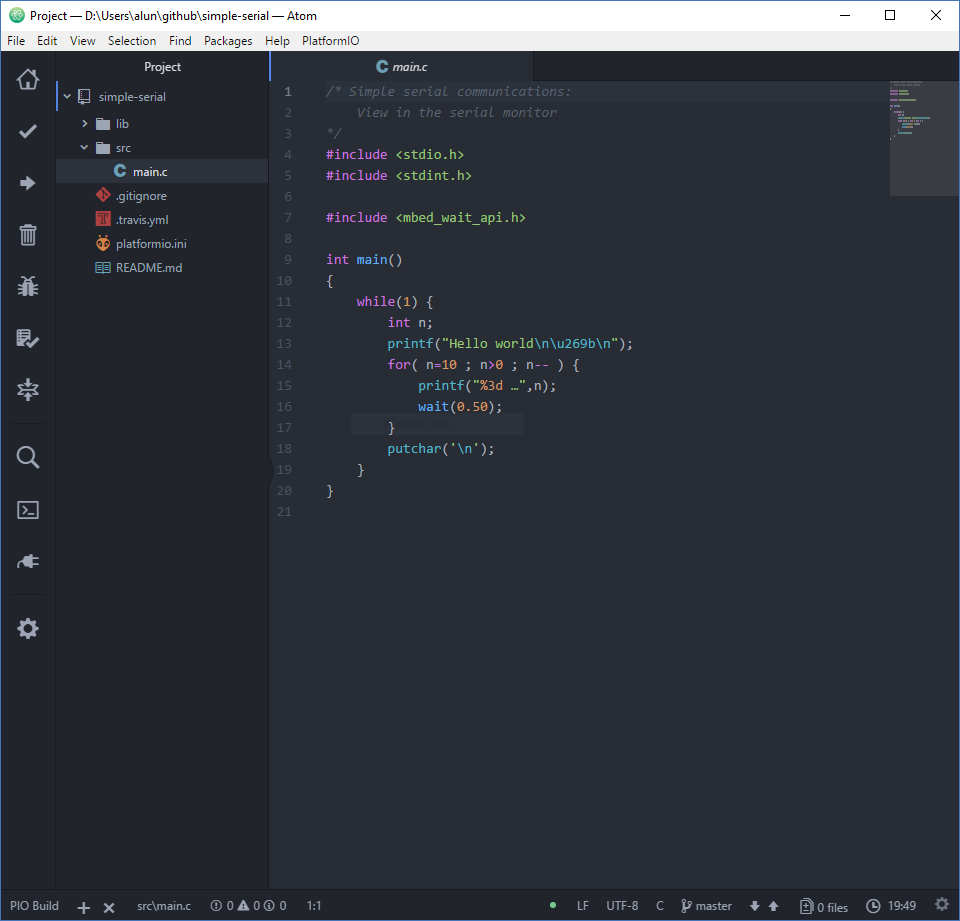
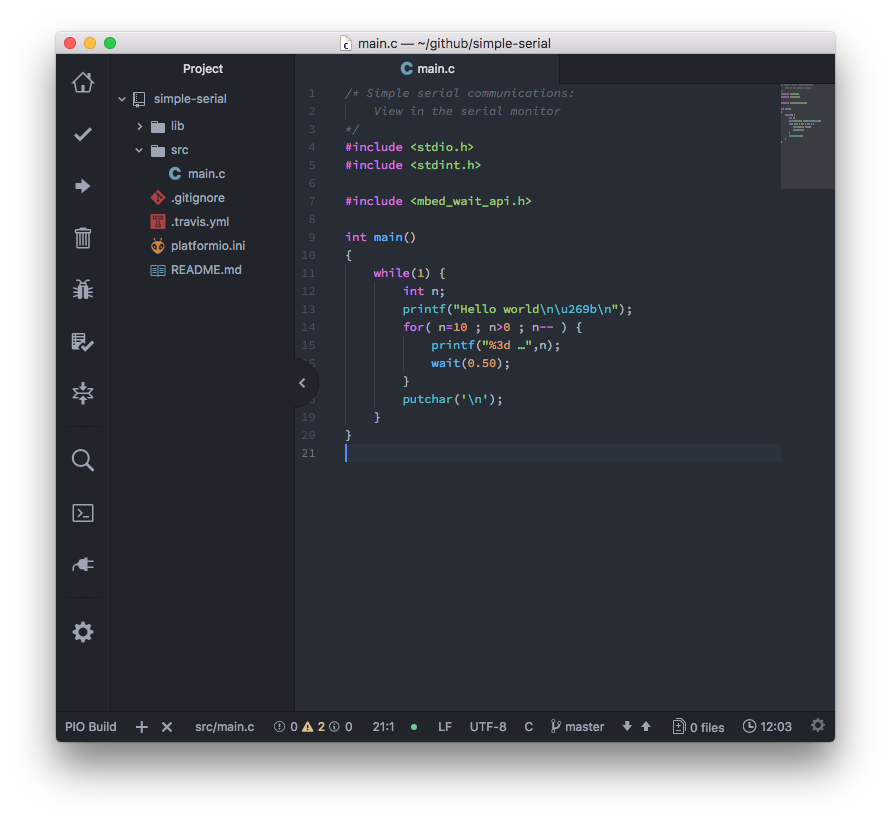
some screen shots

Changed region(s): [[0.0, 0.0, 1.0, 1.0], [0.3333, 0.517, 0.3636, 0.5474], [0.2727, 0.4866, 0.303, 0.517]]

diff --git a/css/layout.css b/css/layout.css
@@ -6,8 +6,7 @@ html {
 }
 
 body {
-    position: relative;
-    margin-left: 2em;
+    padding-left: 2em;
 }
 
 code {
@@ -48,12 +47,12 @@ dt {
 dt::after { content: ": "; }
 
 header {
-display:block;
 margin: 0px 0px 0px -2em;
     background-color: hsl(204, 19%, 26%);
     color: hsl(0, 0%, 96%);
     padding-left: 2em;
     padding-top: 10px;
+    padding-bottom: 0.5em;
 }
 
 header nav ul {
@@ -63,6 +62,7 @@ header nav ul {
     display: block;
 }
 header nav ul li {
+    font-size: smaller;
     margin-right: 10px;
     list-style: none;
     display: inline-block;

diff --git a/getting-started.md b/getting-started.md
@@ -83,3 +83,13 @@ You can now open the folder that has just been created in Atom through the "Add 
 
 # Working on the Project
 [Atom](https://atom.io) and [PlatformIO](http://platformio.org/) provide a good environment for writing program code.
+
+![Atom](images/atom.png)
+
+![Atom](images/atom-build.png)
+
+![Atom](images/atom-upload.png)
+
+![Atom](images/atom-serial.png)
+
+![Atom](images/atom-serial-monitor.png)
